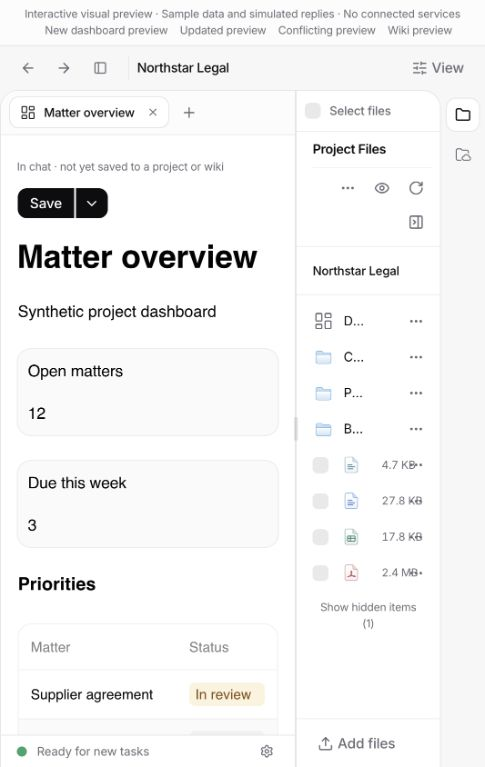
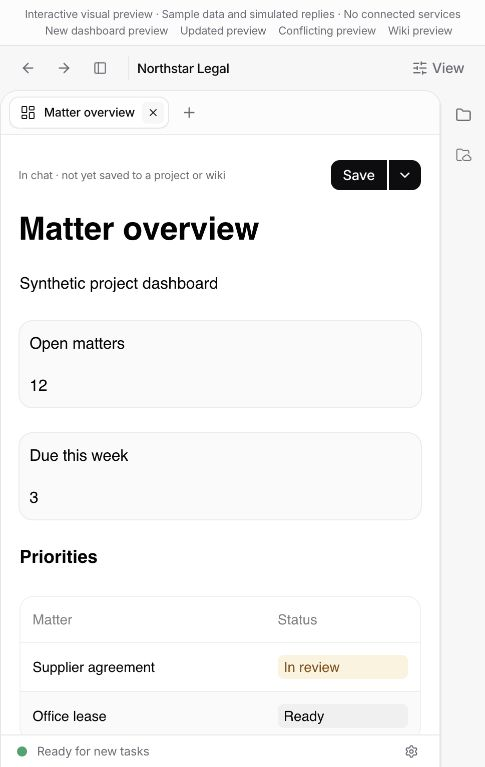
Open dashboard copy dialog directly from Save arrow

diff --git a/apps/app/src/react-app/domains/views/view-save-actions.tsx b/apps/app/src/react-app/domains/views/view-save-actions.tsx
@@ -1,12 +1,12 @@
-import { Loader2 } from "lucide-react";
+import { ChevronDown, Loader2 } from "lucide-react";
 import { Button } from "@/components/ui/button";
 import { t } from "@/i18n";
 
 export function ViewSaveActions({ saved = false, busy = false, saveDisabled = false, onSave, onSaveCopy }: { saved?: boolean; busy?: boolean; saveDisabled?: boolean; onSave?: () => void; onSaveCopy: () => void }) {
-  return <div className="inline-flex shrink-0 items-center gap-2" role="group" aria-label={t("views.save_options")}>
-    {saved ? <span className="text-xs text-muted-foreground">{t("common.saved")}</span> : <Button size="sm" disabled={busy || saveDisabled} onClick={onSave}>
-      {busy && <Loader2 className="size-4 animate-spin" />}{t("common.save")}
-    </Button>}
-    <Button size="sm" variant="outline" disabled={busy} onClick={onSaveCopy}>{t("views.save_copy")}</Button>
+  return <div className="inline-flex shrink-0 items-center" role="group" aria-label={t("views.save_options")}>
+    <Button size="sm" variant={saved ? "outline" : "default"} className="rounded-r-none" disabled={busy || saved || saveDisabled} onClick={onSave}>
+      {busy && <Loader2 className="size-4 animate-spin" />}{t(saved ? "common.saved" : "common.save")}
+    </Button>
+    <Button size="sm" variant={saved ? "outline" : "default"} className="rounded-l-none border-l border-l-background/25 px-2" disabled={busy} aria-label={t("views.save_copy")} aria-haspopup="dialog" onClick={onSaveCopy}><ChevronDown className="size-4" /></Button>
   </div>;
 }
